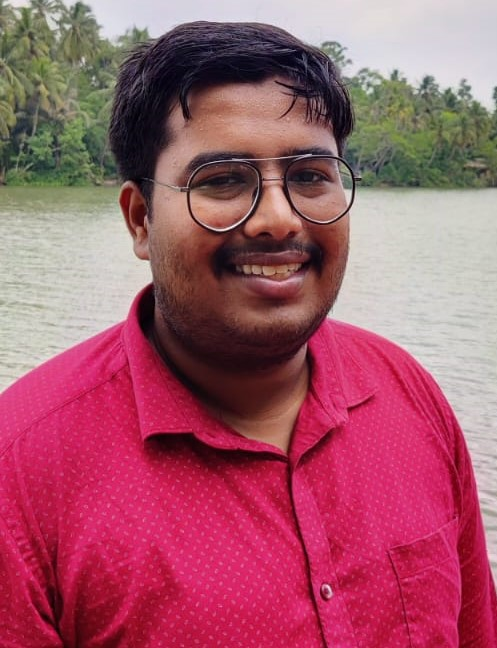
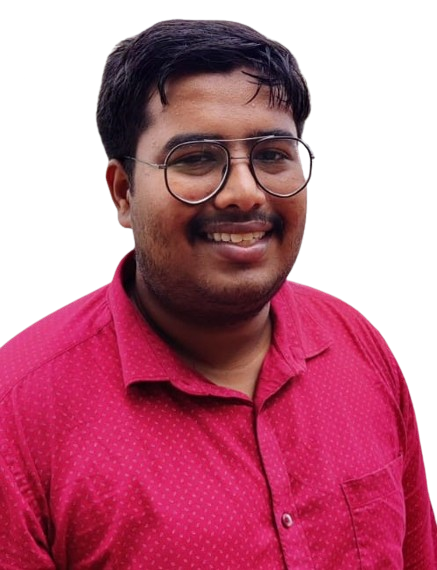
updated some things

diff --git a/index.html b/index.html
@@ -57,7 +57,7 @@
                   </svg>
                   <span class="btn-background"></span>
                 </button>
-                <img class="logobg" src="assets/img/Prinu Vinod Nair.jpg" style="height: 400px;" alt="PVN's Logo">
+                <img class="logobg" src="assets/img/logonobg.png" style="height: 400px;" alt="PVN's Logo">
               </div>
               <div class="intro--options">
                 <a href="https://github.com/PrinuVinod">
